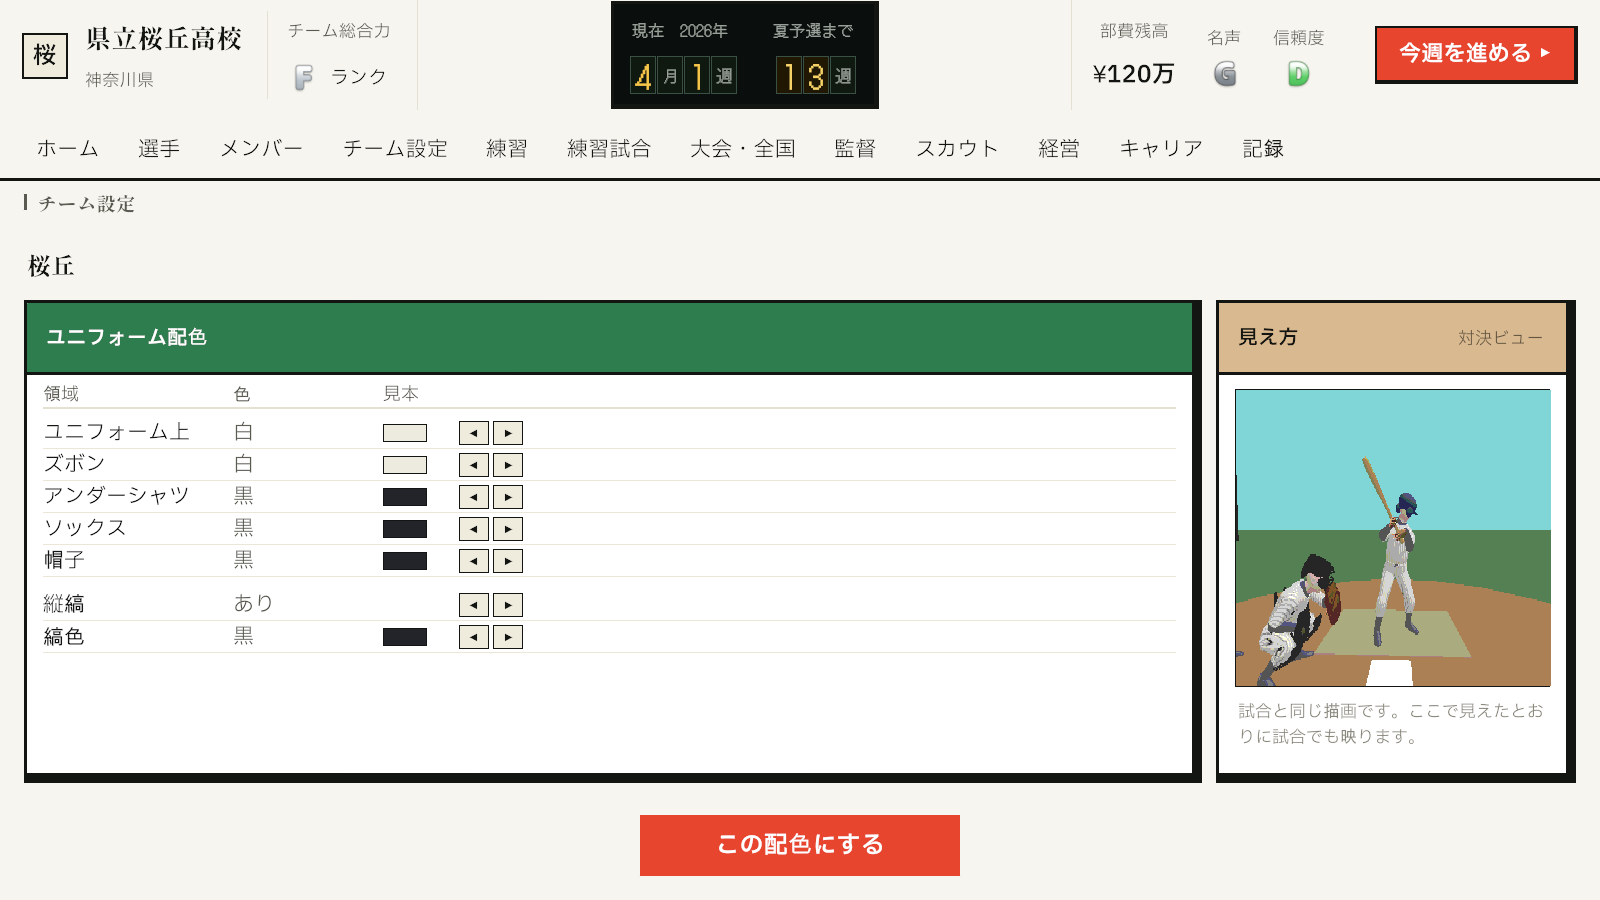
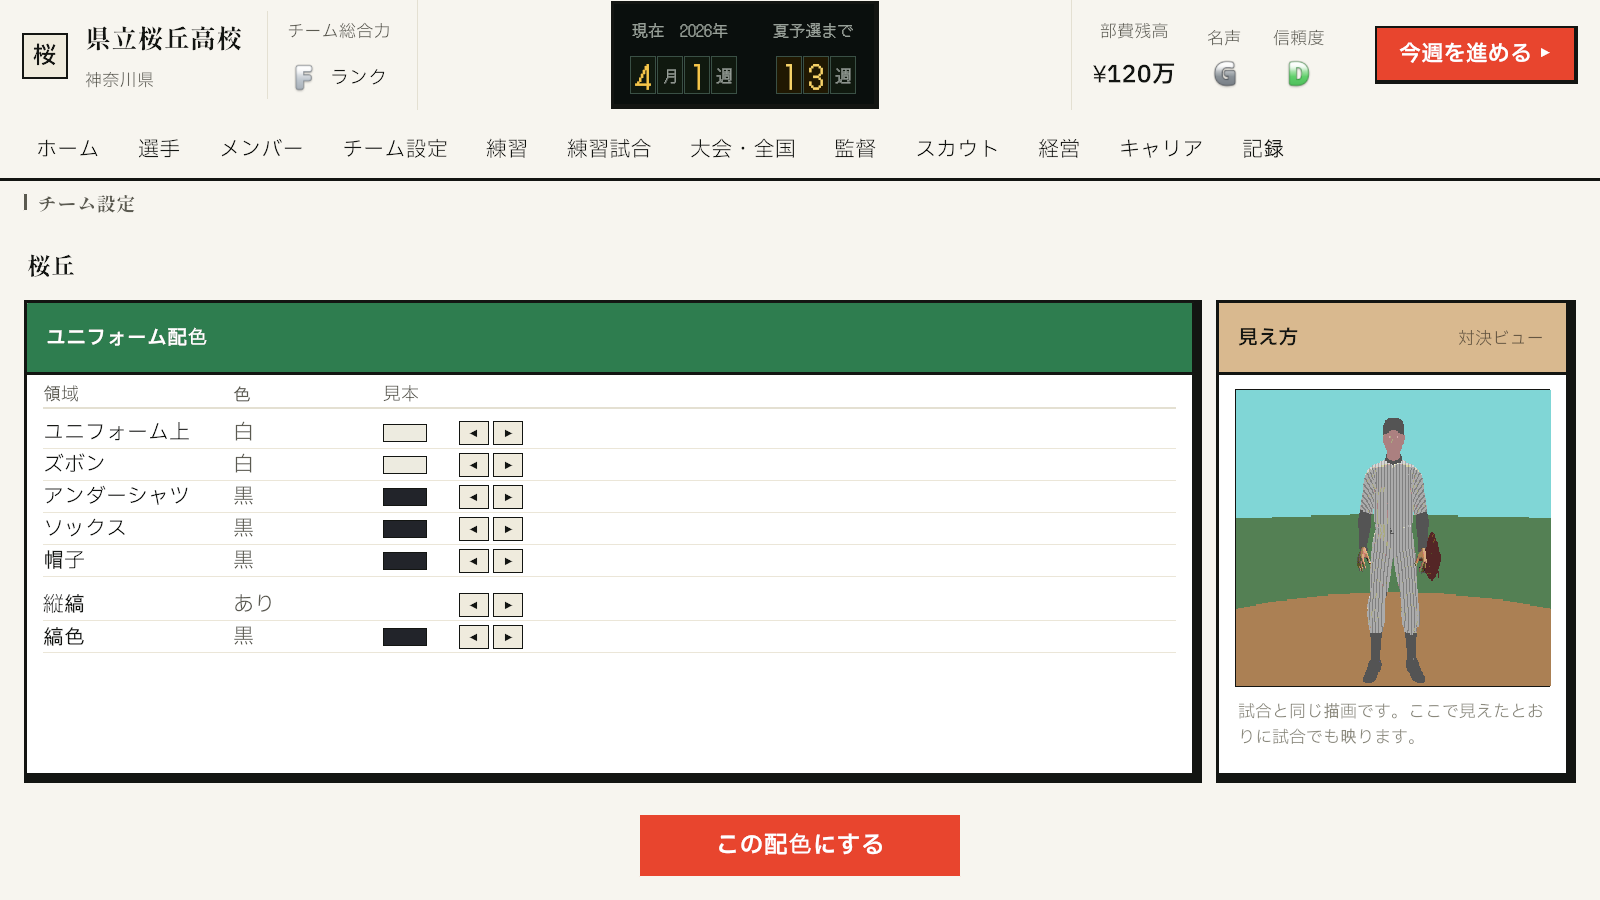
チーム設定のプレビューを投手の直立ポーズにする
打者の構えでは体が横を向き、バットも入って配色が見づらい。直立で正面から見せる（監督指摘）。

- DuelStageRig.PosePreviewStanding を新設。投手だけ残し、購入パックの直立ループ
  （AA_Baseball_Defender_Standing_Idle_Loop_Type01）へクリップを差し替える。
  打者・捕手・球審・バットは消す＝配色以外の情報を画から追い出す
- 立たせるのが投手なのは、**配色の対象が全部見えるのが投手だけ**だから。
  打者はヘルメット（暗紺固定）で帽子が見えず、捕手は防具でユニが隠れる
- カメラは実測で決めた。投手はマウンドに yaw237° で立ち、正面は (-0.84, 0, -0.55)。
  画角は ApplyFov が 16:9 基準で正規化する都合、この欄（およそ4:3）では実効が約1.33倍に
  広がるため Play 中に振って 27 に決めた（17=首から下で見切れ／46=小さすぎ）

engine は不変。

Changed region(s): [[0.75, 0.4667, 0.9688, 0.7778]]

diff --git a/Assets/KokoSim/Match/DuelStageRig.cs b/Assets/KokoSim/Match/DuelStageRig.cs
@@ -787,6 +787,49 @@ namespace KokoSim.Unity.Match
 
         /// <summary>水平視野角を基準構図（垂直2.9°@16:9）で固定し、現RT縦横比から垂直FOVを逆算する。</summary>
         /// <summary>
+        /// 【プレビュー用】1人だけを直立で立たせる（チーム設定画面の配色確認）。
+        ///
+        /// 立たせるのは<b>投手</b>。打者はヘルメット（暗紺固定）で帽子が見えず、捕手は防具で
+        /// ユニが隠れるため、配色の対象（上・ズボン・アンダー・ソックス・帽子）が全部見えるのは投手だけ。
+        /// 他の3人とバットは消す＝配色以外の情報を画から追い出す。
+        /// クリップは購入パックの直立ループへ差し替える（投球モーションのままだと絵が動きすぎる）。
+        /// </summary>
+        /// <returns>直立クリップが無くて組めなければ false（呼び元はそのままの絵で続けてよい）。</returns>
+        public bool PosePreviewStanding()
+        {
+            if (!Available || _pitcher == null) return false;
+            var clip = LoadClip("AA_Baseball_Defender_Standing_Idle_Loop_Type01");
+            if (clip == null) return false;
+
+            if (_batter != null) _batter.Go.SetActive(false);
+            if (_catcher != null) _catcher.Go.SetActive(false);
+            if (_umpire != null) _umpire.Go.SetActive(false);
+            if (_bat != null) _bat.SetActive(false);
+
+            _pitcher.HoldAtEnd = false;   // 投球用の「投げ切って止まる」を解除してループさせる
+            _pitcher.EndAt = 0f;
+            _pitcher.IdleClip = clip;
+            _pitcher.IdleEndAt = 0f;
+            SwapClip(_pitcher, clip);
+            StepActor(_pitcher, 0.001f);
+            GroundFix(_pitcher);
+            return true;
+        }
+
+        /// <summary>再生中のクリップを差し替える（Playable を作り直す。SpawnActor の組み立てと同じ形）。</summary>
+        private static void SwapClip(Actor a, AnimationClip clip)
+        {
+            if (a == null || !a.Graph.IsValid()) return;
+            a.Clip = clip;
+            a.Time = 0f;
+            a.Holding = false;
+            a.HoldRemaining = 0f;
+            if (a.Playable.IsValid()) a.Playable.Destroy();
+            a.Playable = AnimationClipPlayable.Create(a.Graph, clip);
+            a.Output.SetSourcePlayable(a.Playable);
+        }
+
+        /// <summary>
         /// 【プレビュー用】カメラを任意の位置・注視点へ置く（ステージ原点ローカル・m）。
         ///
         /// <see cref="ApplyCalibration"/> のカメラは「マウンド後方から本塁を見る」構図に固定されていて

diff --git a/Assets/KokoSim/Team/TeamSettingController.cs b/Assets/KokoSim/Team/TeamSettingController.cs
@@ -42,10 +42,16 @@ namespace KokoSim.Unity.Squad
         // 配色は最終的に対決ビューの絵で決まるので、見せるのは実物の方が正しい（2026-07-29 監督指摘）。
         // 3Dアセットが無い環境（購入素体・クリップ未導入）では組めないので、そのときだけ模式図へ落ちる。
 
-        /// <summary>打者を正面から見る構図。打者は (BatterX,0,BatterZ) に yaw90＝+X を向いて立つ。</summary>
-        private static readonly Vector3 PreviewCamPos = new(1.9f, 1.20f, 0.10f);
-        private static readonly Vector3 PreviewLookAt = new(-0.9f, 1.05f, 0f);
-        private const float PreviewFovDeg = 48f;   // 構えたバットの先まで入る画角（実測で決めた）
+        /// <summary>
+        /// 直立の投手を正面から見る構図。投手はマウンド (0, MoundHeight, 18.44) に
+        /// yaw236°（購入AAクリップは素で+Z向き）で立つので、その正面＝(-0.83, 0, -0.56) 方向へカメラを置く。
+        /// 数値は実測で詰めた（目測でカメラを置くと外す・グラブ検証と同じ教訓）。
+        /// </summary>
+        private static readonly Vector3 PreviewCamPos = new(-2.35f, 1.30f, 16.85f);
+        private static readonly Vector3 PreviewLookAt = new(0f, 1.10f, 18.44f);
+        // ApplyFov は 16:9 基準で正規化するので、この欄（およそ4:3）では実効画角が約1.33倍に広がる。
+        // 全身がちょうど収まる値を Play 中に振って決めた（17=首から下で見切れ／46=小さすぎ）
+        private const float PreviewFovDeg = 27f;
 
         private VisualElement _root;
         private VisualElement _rowHost;
@@ -101,6 +107,7 @@ namespace KokoSim.Unity.Squad
             _rig = new Match.DuelStageRig();
             if (_rig.Available)
             {
+                _rig.PosePreviewStanding();   // 投手だけ直立で残す（配色以外を画から追い出す）
                 _rig.FramePreview(PreviewCamPos, PreviewLookAt, PreviewFovDeg);
                 _rigView = new Match.DuelViewElement();
                 _rigView.BindRig(_rig);
